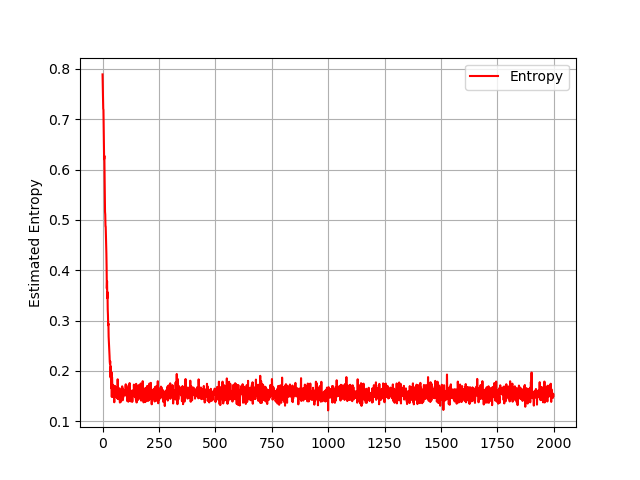
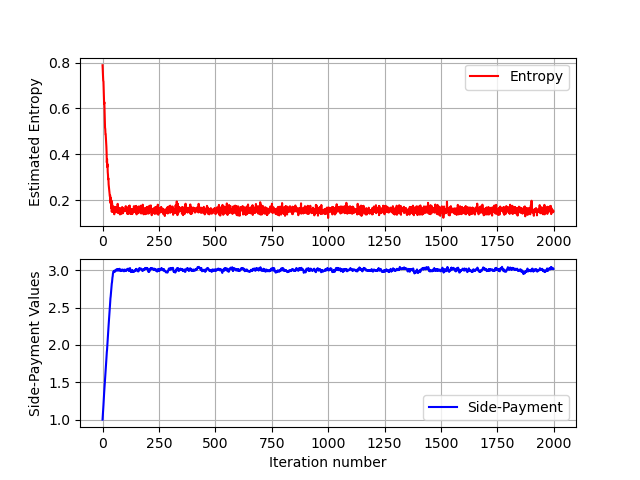
# Add new experiment examples

Changed region(s): [[0.0312, 0.125, 0.9062, 0.9062], [0.4062, 0.9375, 0.5938, 1.0]]

diff --git a/setup_and_solvers/initial_opacity_gradient_calculation.py b/setup_and_solvers/initial_opacity_gradient_calculation.py
@@ -54,7 +54,7 @@ class InitialOpacityPolicyGradient:
             torch.zeros(self.x_size, dtype=torch.float32, device=device,
                         requires_grad=False))
         self.x.data[self.modify_list] = 1
-        self.weight = 0.1
+        self.weight = 0.05
 
         # Defining optimal theta in pyTorch ways.
         self.theta_torch_list = []
@@ -72,7 +72,7 @@ class InitialOpacityPolicyGradient:
         self.get_all_lists()
 
         self.entropy_list = list([])
-        # self.threshold_list = list([])
+        self.total_cost_list = list([])
         self.iteration_list = list([])
         self.theta_torch_collection = list([])
         self.x_list = list([])
@@ -378,7 +378,7 @@ class InitialOpacityPolicyGradient:
         # test_nabla_H = self.theta_torch.grad.clone()
         nabla_H = nabla_H / self.batch_size
 
-        return -H, -nabla_H
+        return -H, nabla_H
 
     def dtheta_T_dx(self, type_num):
         # returns a NM X NM matrix, (i, j) is dtheta_i/dx_j
@@ -465,7 +465,7 @@ class InitialOpacityPolicyGradient:
         product = product + self.dh_dx()
         # nonzero_indices = product.nonzero(as_tuple=False)
         # print("Nonzero elements:", product[nonzero_indices].tolist())
-        return H, - product
+        return H, product
 
     def get_side_payment(self, x):
         side_payment = {}
@@ -551,16 +551,20 @@ class InitialOpacityPolicyGradient:
 
                 # Computing gradient of Lagrangian with grad_H and grad_V.
                 # grad_L = grad_H + self.lambda_mul * grad_V
-            print("The approximate entropy is", approximate_cond_entropy / trajectory_iter)
-            self.entropy_list.append(approximate_cond_entropy / trajectory_iter)
+            entropy = approximate_cond_entropy / trajectory_iter
+            print("The approximate entropy is", entropy)
+            self.entropy_list.append(entropy)
+            total_cost = (approximate_cond_entropy / trajectory_iter + self.weight * torch.sum(self.x)).item()
+            print("The objective function is", total_cost)
+            self.total_cost_list.append(total_cost)
 
-            print(f"Memory allocated: {torch.cuda.memory_allocated() / 1e9:.2f} GB")
-            print(f"Memory cached: {torch.cuda.memory_reserved() / 1e9:.2f} GB")
+            # print(f"Memory allocated: {torch.cuda.memory_allocated() / 1e9:.2f} GB")
+            # print(f"Memory cached: {torch.cuda.memory_reserved() / 1e9:.2f} GB")
 
             # grad_L = (grad_H / trajectory_iter)
             # Use the above line for only the entropy term.
             grad = (grad / trajectory_iter)
-            print("The gradient of entropy", grad / trajectory_iter)
+            print("The gradient of entropy", (grad / trajectory_iter)[0][self.modify_list].item())
             # print("The gradient of value", grad_V_comparison_total / trajectory_iter)
 
             # print("The approximate value is", approximate_value_total / trajectory_iter)
@@ -571,7 +575,7 @@ class InitialOpacityPolicyGradient:
             with torch.no_grad():
                 self.x = self.x - self.eta * grad
                 self.x = torch.clamp(self.x, min=0)
-                print("The side payment is", self.x)
+                print("The side payment is", self.x[0][self.modify_list[0]].item())
 
             # self.lambda_mul = (self.lambda_mul - self.kappa *
             #                    ((approximate_value_total / trajectory_iter) - self.epsilon))

diff --git a/Examples/super_mario_example_initial_opacity_2.py b/Examples/super_mario_example_initial_opacity_2.py
@@ -17,8 +17,8 @@ target = [5, 35]
 
 # secret_goal_states = [2, 20, 34]
 reward_states = target
-penalty_states = []
-obstacles = [13, 17, 21, 29, 33]
+penalty_states = [4, 10, 11]
+obstacles = [17, 19]
 unsafe_u = []
 # non_init_states = [1, 25, 9, 14, 15, 17, 19, 23]
 initial = {0}
@@ -31,7 +31,7 @@ for state in range(36):
         initial_dist[state] = 0
 
 robot_ts_1 = read_from_file_MDP_old('robotmdp_1.txt')
-robot_ts_2 = read_from_file_MDP_old('robotmdp_2.txt')
+robot_ts_2 = read_from_file_MDP_old('robotmdp_3.txt')
 
 # sensor setup
 sensors = {'A', 'B', 'C', 'D', 'NO'}
@@ -83,7 +83,7 @@ for state in agent_gw_1.mdp.states:
     elif state in penalty_states:
         value_dict_1[state] = -0.1
     else:
-        value_dict_1[state] = -0.01
+        value_dict_1[state] = 0
 
 value_dict_2 = dict()
 for state in agent_gw_2.mdp.states:
@@ -94,7 +94,7 @@ for state in agent_gw_2.mdp.states:
     elif state in penalty_states:
         value_dict_2[state] = -20
     else:
-        value_dict_2[state] = -0.01
+        value_dict_2[state] = 0
 
 side_payment = {}
 for state in agent_gw_1.mdp.states:
@@ -109,7 +109,7 @@ for state in agent_gw_1.mdp.states:
 # s1_idx = agent_gw_1.states.index('')
 # idx1 = 4*len(agent_gw_1.actlist) + E_idx
 # idx2 = 11*len(agent_gw_1.actlist) + N_idx
-modify_list = [140]
+modify_list = [20]
 
 
 # # TODO: The augmented states still consider the gridcells with obstacles. Try by omitting the obstacle filled states
@@ -125,8 +125,8 @@ policy_2 = hmm_list[1].policy
 # masking_policy_gradient = PrimalDualPolicyGradient(hmm=hmm_p2, iter_num=1000, V=10, T=10, eta=1.5, kappa=0.1, epsilon=threshold)
 # masking_policy_gradient.solver()
 
-masking_policy_gradient = InitialOpacityPolicyGradient(hmm_list=hmm_list, ex_num=4, iter_num=2000, batch_size=100, V=500,
+masking_policy_gradient = InitialOpacityPolicyGradient(hmm_list=hmm_list, ex_num=5, iter_num=1000, batch_size=100, V=2000,
                                                        T=12,
-                                                       eta=0.5)
+                                                       eta=0.1)
 
 masking_policy_gradient.solver()

diff --git a/Examples/plot_file.py b/Examples/plot_file.py
@@ -1,7 +1,7 @@
 import matplotlib.pyplot as plt
 import pickle
 
-ex_num = 3
+ex_num = 2
 iter_num = 2000
 
 iteration_list = range(iter_num)
@@ -9,20 +9,35 @@ iteration_list = range(iter_num)
 with open(f'../Data/entropy_values_{ex_num}.pkl', 'rb') as file:
     entropy_list = pickle.load(file)
 
+with open(f'../Data/x_list_{ex_num}', 'rb') as file:
+    x_list = pickle.load(file)
+
 # with open(f'../Data/value_function_list_{ex_num}', 'rb') as file:
 #     threshold_list = pickle.load(file)
 
+side_payment_list = []
+for i in iteration_list:
+    side_payment_list.append(x_list[i][20].item())
+
+print(side_payment_list)
 
 print("The last entropy value is", entropy_list[-1])
-# print("The policy value is", threshold_list[-5])
+print("The policy value is", side_payment_list[-5])
 
-figure, axis = plt.subplots(1, 1)
+figure, axis = plt.subplots(2, 1)
 
 # Plot data on the first subplot with a solid red line
-axis.plot(iteration_list, entropy_list, color='red', linestyle='-', label='Entropy')
-axis.set_ylabel("Estimated Entropy")  # Set ylabel for the first subplot
-axis.legend()  # Add legend to the first subplot
-axis.grid(True)
+axis[0].plot(iteration_list, entropy_list, color='red', linestyle='-', label='Entropy')
+axis[0].set_ylabel("Estimated Entropy")  # Set ylabel for the first subplot
+axis[0].legend()  # Add legend to the first subplot
+axis[0].grid(True)
+
+# Plot data on the second subplot with a dashed blue line
+axis[1].plot(iteration_list, side_payment_list, color='blue', linestyle='-', label='Side-Payment')
+axis[1].set_xlabel("Iteration number")  # Set xlabel for the second subplot
+axis[1].set_ylabel("Side-Payment Values")  # Set ylabel for the second subplot
+axis[1].legend()  # Add legend to the second subplot
+axis[1].grid(True)
 
 # Plot data on the second subplot with a dashed blue line
 # axis[1].plot(iteration_list, threshold_list, color='blue', linestyle='-', label='Estimated Total Return')
